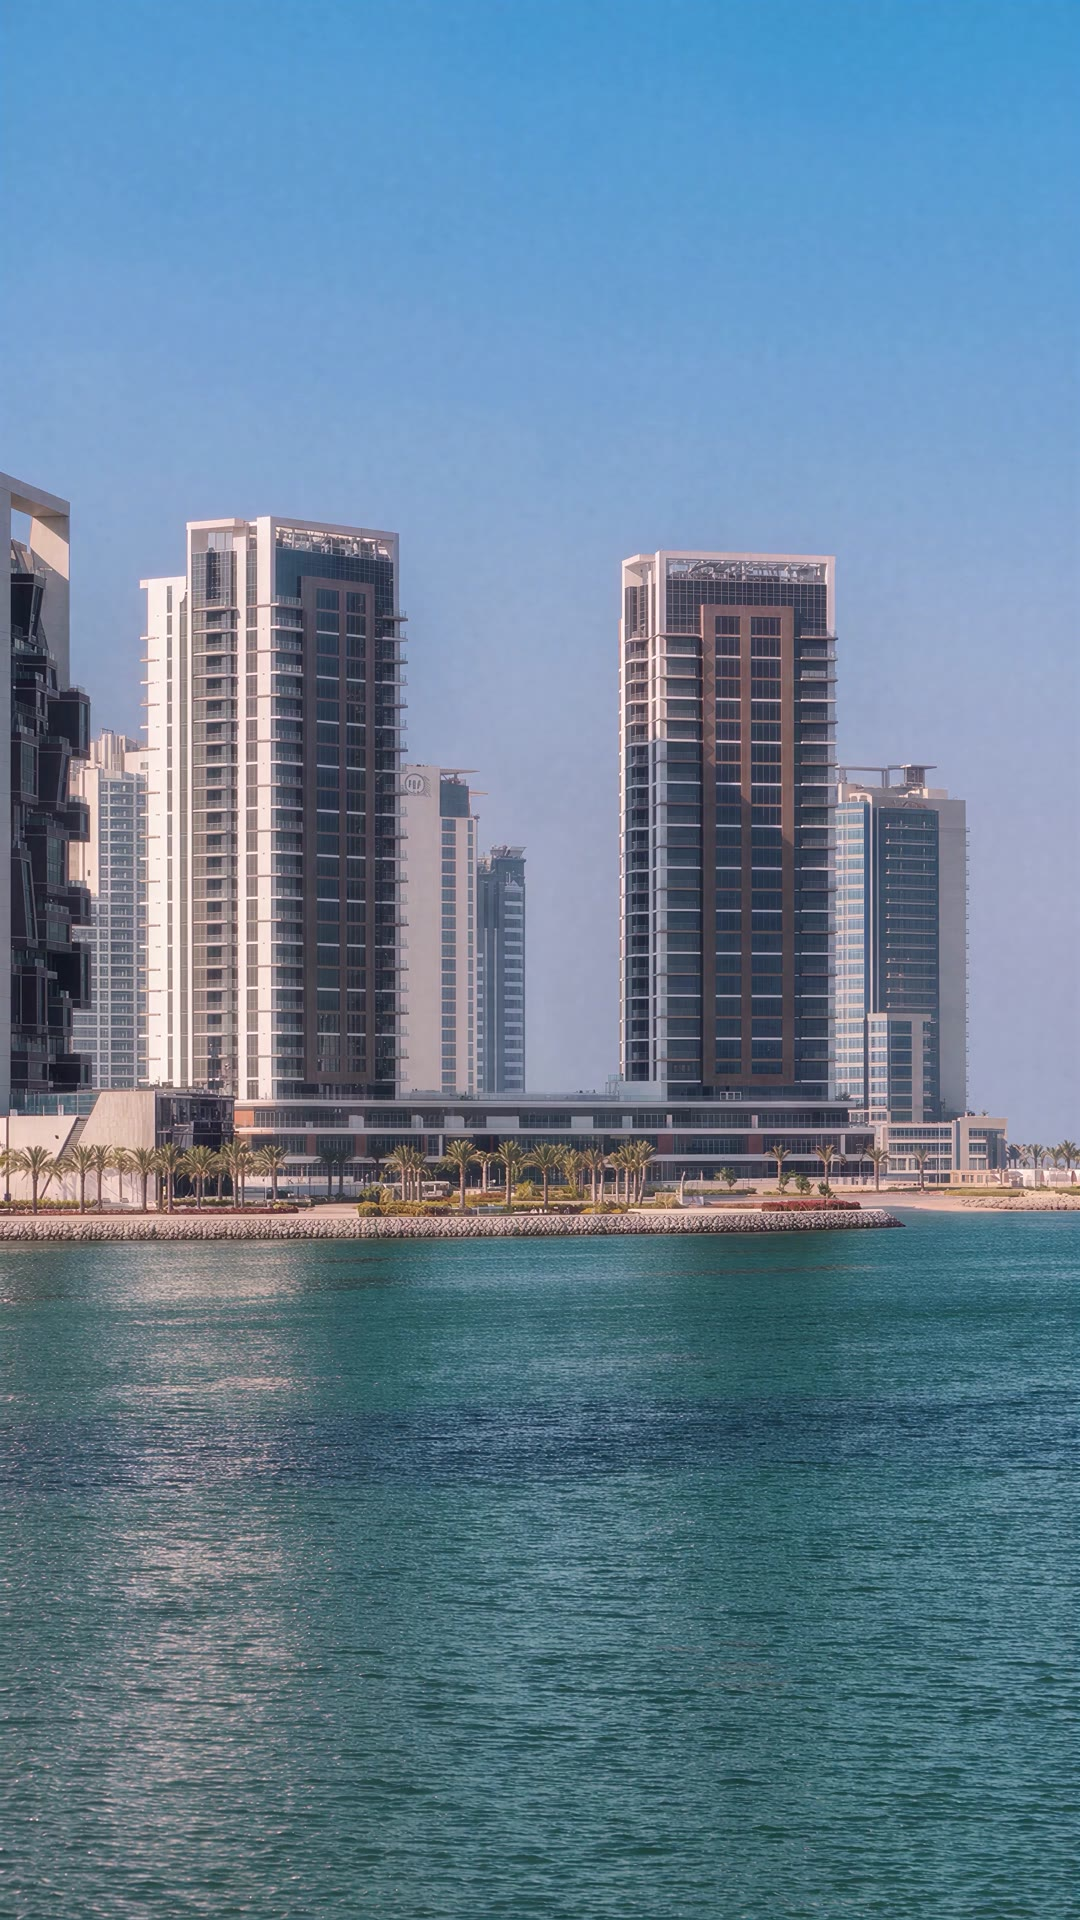
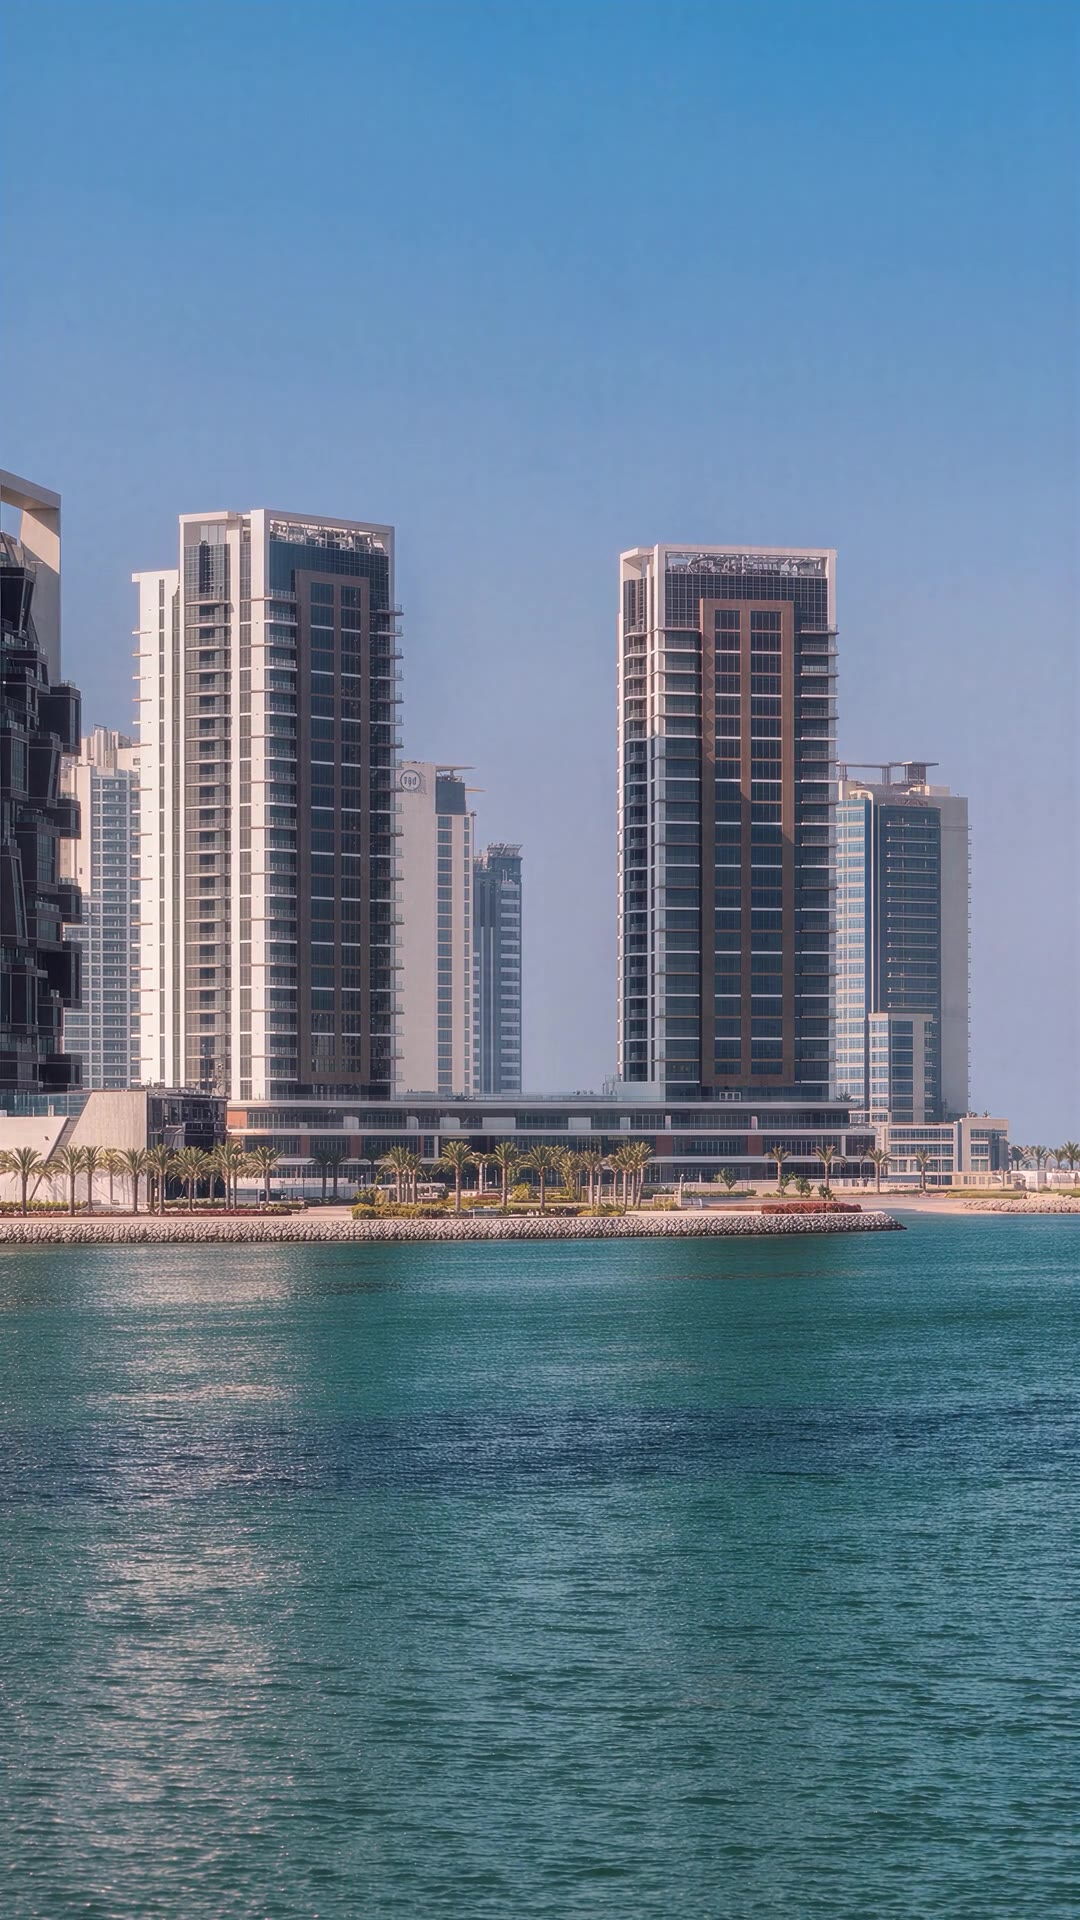
Site preview: hero starts 4 s in (opening skipped in playback; video files untouched)

Changed region(s): [[0.0, 0.25, 1.0, 1.0]]

diff --git a/site/index.html b/site/index.html
@@ -655,7 +655,7 @@ html.hero-lock .hero,html.hero-lock .content,html.hero-lock .spacer{touch-action
 <!-- HERO -->
 <section class="hero" id="top" aria-label="Introduction">
   <div class="hero-slides">
-    <video class="hero-video" id="heroVideo" poster="hero-poster.jpg" muted playsinline autoplay preload="auto" disablepictureinpicture></video>
+    <video class="hero-video" id="heroVideo" poster="hero-poster.jpg?v=4s" muted playsinline autoplay preload="auto" disablepictureinpicture></video>
     <script>(function(){var v=document.getElementById('heroVideo');var m=matchMedia('(pointer:coarse)').matches||matchMedia('(max-width:1024px)').matches;v.src=m?'hero-phone.mp4?v=20260930':'hero-mobile.mp4?v=20260930';})();</script>
   </div>
   <div class="hero-shade"></div>
@@ -817,6 +817,10 @@ html.hero-lock .hero,html.hero-lock .content,html.hero-lock .spacer{touch-action
 
   /* ---- hero video: autoplays in slow-mo; scroll/swipe down fast-forwards, up rewinds; the end glides to the next section ---- */
   const hero=$('.hero'), vid=$('#heroVideo');
+  const START=4;            // the clip begins 4 s in (opening skipped); files themselves are untouched
+  const toStart=()=>{ if(vid.currentTime<START-0.05){ try{ vid.currentTime=START; }catch(e){} } };
+  vid.addEventListener('loadedmetadata',toStart); if(vid.readyState>=1) toStart();
+  vid.addEventListener('timeupdate',()=>{ if(!window.__heroDrag && vid.currentTime<START-0.05) toStart(); });
   const MOBILE=matchMedia('(pointer:coarse)').matches;
   const IDLE=MOBILE?1:0.5;   // resting speed: slow motion on desktop; normal speed on phones (the opening shot is nearly static, and iOS handles 1x far better)
   const LANDSCAPE=matchMedia('(min-aspect-ratio:1/1)');
@@ -857,14 +861,14 @@ html.hero-lock .hero,html.hero-lock .content,html.hero-lock .spacer{touch-action
         if(!vid.paused) vid.pause();
         if(v<0){
           if(scrubT===null) scrubT=vid.currentTime;
-          scrubT=Math.max(0,scrubT+v*dt);            // target keeps moving even while a seek is in flight
+          scrubT=Math.max(START,scrubT+v*dt);            // target keeps moving even while a seek is in flight
           if(!seeking && Math.abs(vid.currentTime-scrubT)>(MOBILE?0.12:1/48) && now-lastSeek>(MOBILE?90:0)){ seeking=true; lastSeek=now;
             if(!MOBILE && vid.fastSeek && Math.abs(vid.currentTime-scrubT)>.4) vid.fastSeek(scrubT); else vid.currentTime=scrubT; }
-          if(scrubT<=0) v=0;                          // reached the start: hold, then resume slow-mo
+          if(scrubT<=START) v=0;                          // reached the start: hold, then resume slow-mo
         }
       }
       if(v>=0.07) scrubT=null;
-      if(!MOBILE && LANDSCAPE.matches && vid.duration){ const p=Math.min(1,Math.max(0,vid.currentTime/(vid.duration*0.25))); vid.style.objectPosition='center '+(p*p*(3-2*p)*50).toFixed(2)+'%'; }
+      if(!MOBILE && LANDSCAPE.matches && vid.duration){ const p=Math.min(1,Math.max(0,(vid.currentTime-START)/((vid.duration-START)*0.25))); vid.style.objectPosition='center '+(p*p*(3-2*p)*50).toFixed(2)+'%'; }
       hero.classList.toggle('is-fast',Math.abs(v)>1.2);
       hero.classList.toggle('is-rewind',v<0);
     }
@@ -872,7 +876,7 @@ html.hero-lock .hero,html.hero-lock .content,html.hero-lock .spacer{touch-action
   })(performance.now());
   vid.addEventListener('ended',()=>{
     if(engaged) leave();
-    else { vid.currentTime=0; play(); }      // untouched: keep looping in slow-mo
+    else { vid.currentTime=START; play(); }      // untouched: keep looping in slow-mo
   });
   // scrolled back to the top → hero takes over again and resumes
   window.addEventListener('scroll',()=>{
@@ -892,7 +896,7 @@ html.hero-lock .hero,html.hero-lock .content,html.hero-lock .spacer{touch-action
   /* ---- touch scrub: drag like a video scrubber. Right or up = forward, left or down = back ---- */
   let dragging=false, sx0=0, sy0=0, t0=0, target=0, fwd=false;
   const dur=()=>vid.duration||20;
-  const SPP=()=>dur()/(Math.max(innerWidth,innerHeight)*1.1);        // one long drag ≈ the whole clip
+  const SPP=()=>(dur()-START)/(Math.max(innerWidth,innerHeight)*1.1);        // one long drag ≈ the whole clip
   function seekTo(t){ if(seeking) return; seeking=true; lastSeek=performance.now();
     try{ if(vid.fastSeek) vid.fastSeek(t); else vid.currentTime=t; }catch(e){ vid.currentTime=t; } }
   window.addEventListener('touchstart',e=>{
@@ -905,7 +909,7 @@ html.hero-lock .hero,html.hero-lock .content,html.hero-lock .spacer{touch-action
   const onMove=e=>{ if(!dragging||!gated()) return; block(e);
     const p=e.touches[0], dx=p.clientX-sx0, dy=p.clientY-sy0;
     const d=Math.abs(dx)>Math.abs(dy)?dx:-dy;                 // dominant direction
-    target=Math.max(0,Math.min(dur()-0.05,t0+d*SPP())); fwd=d>0;
+    target=Math.max(START,Math.min(dur()-0.05,t0+d*SPP())); fwd=d>0;
     if(Math.abs(vid.currentTime-target)>0.04) seekTo(target);
   };
   window.addEventListener('touchmove',onMove,{capture:true,passive:false});
